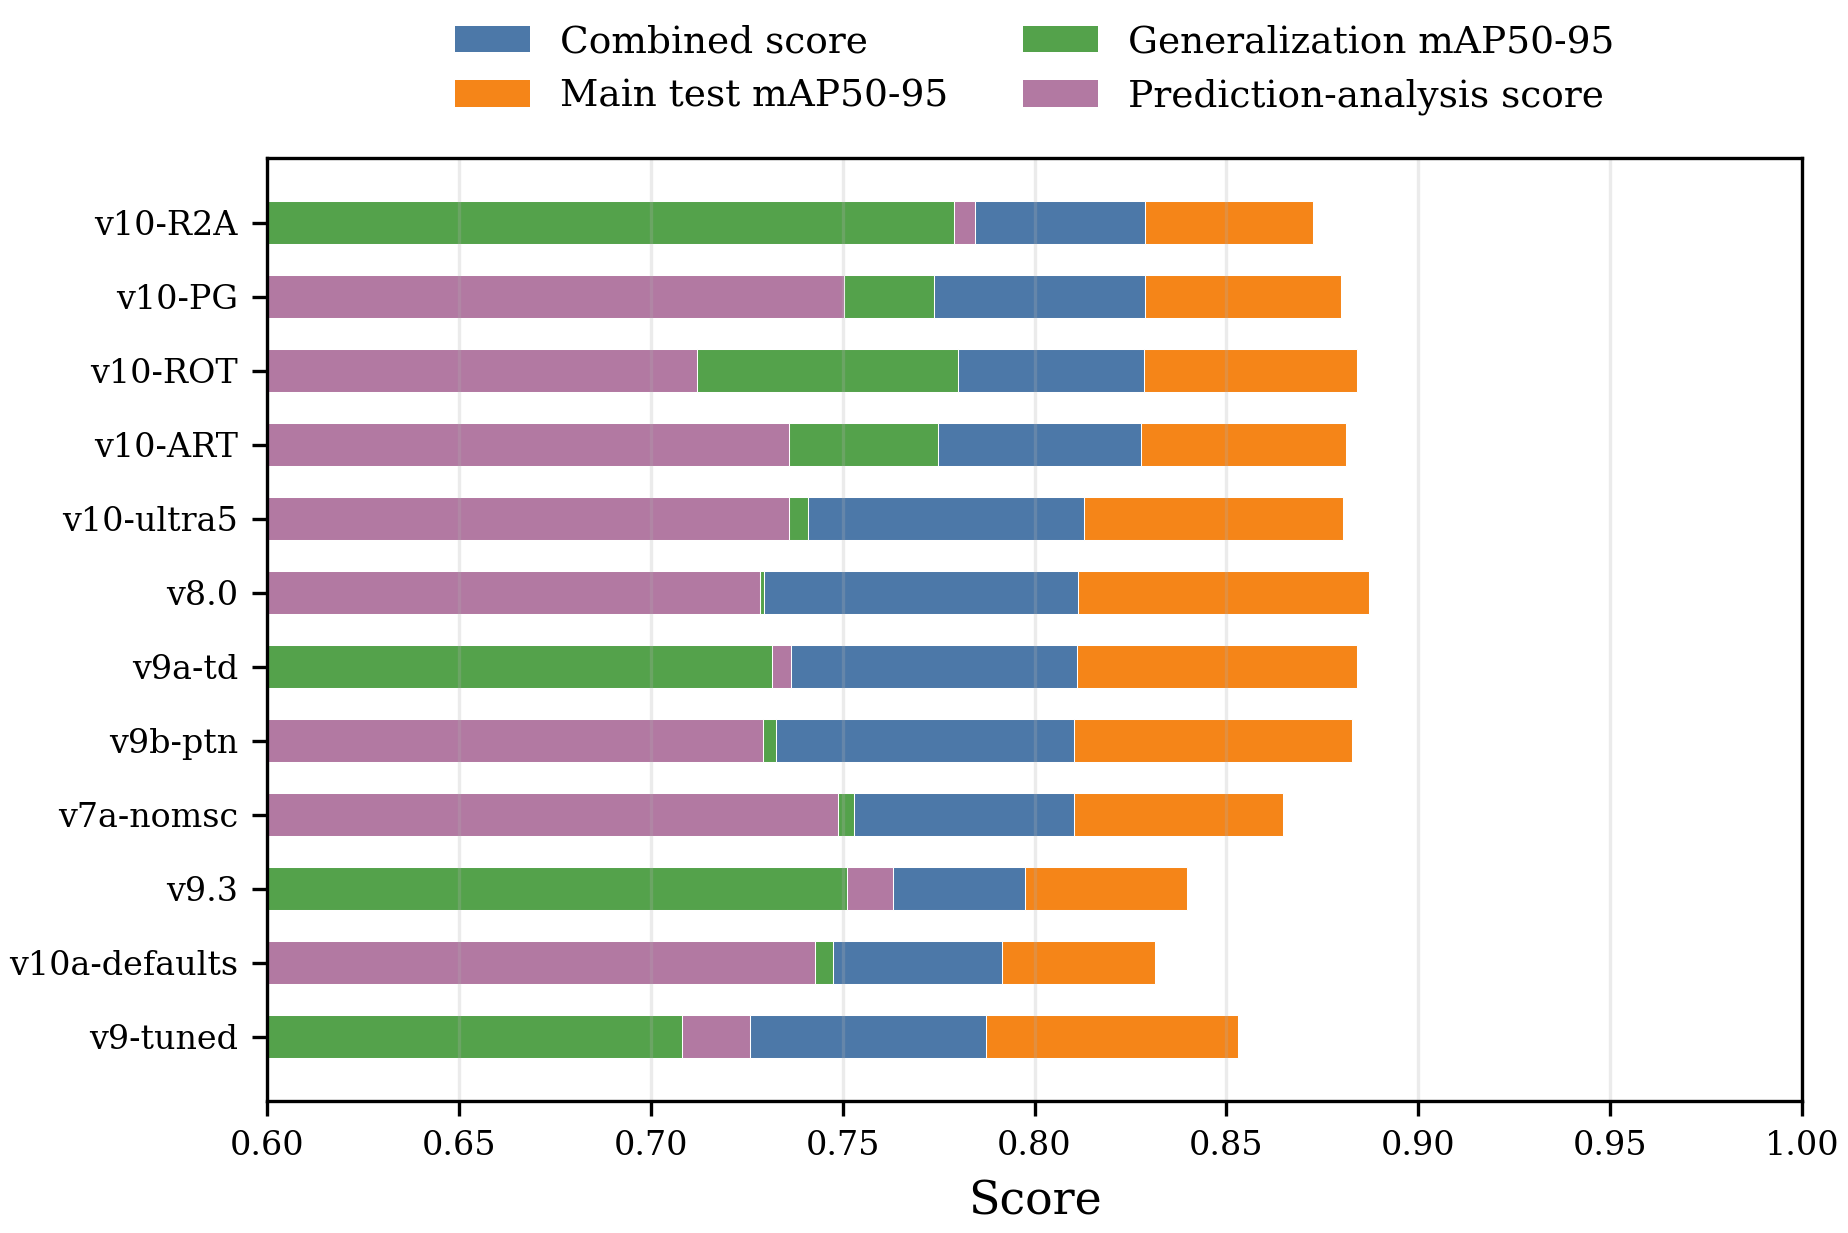
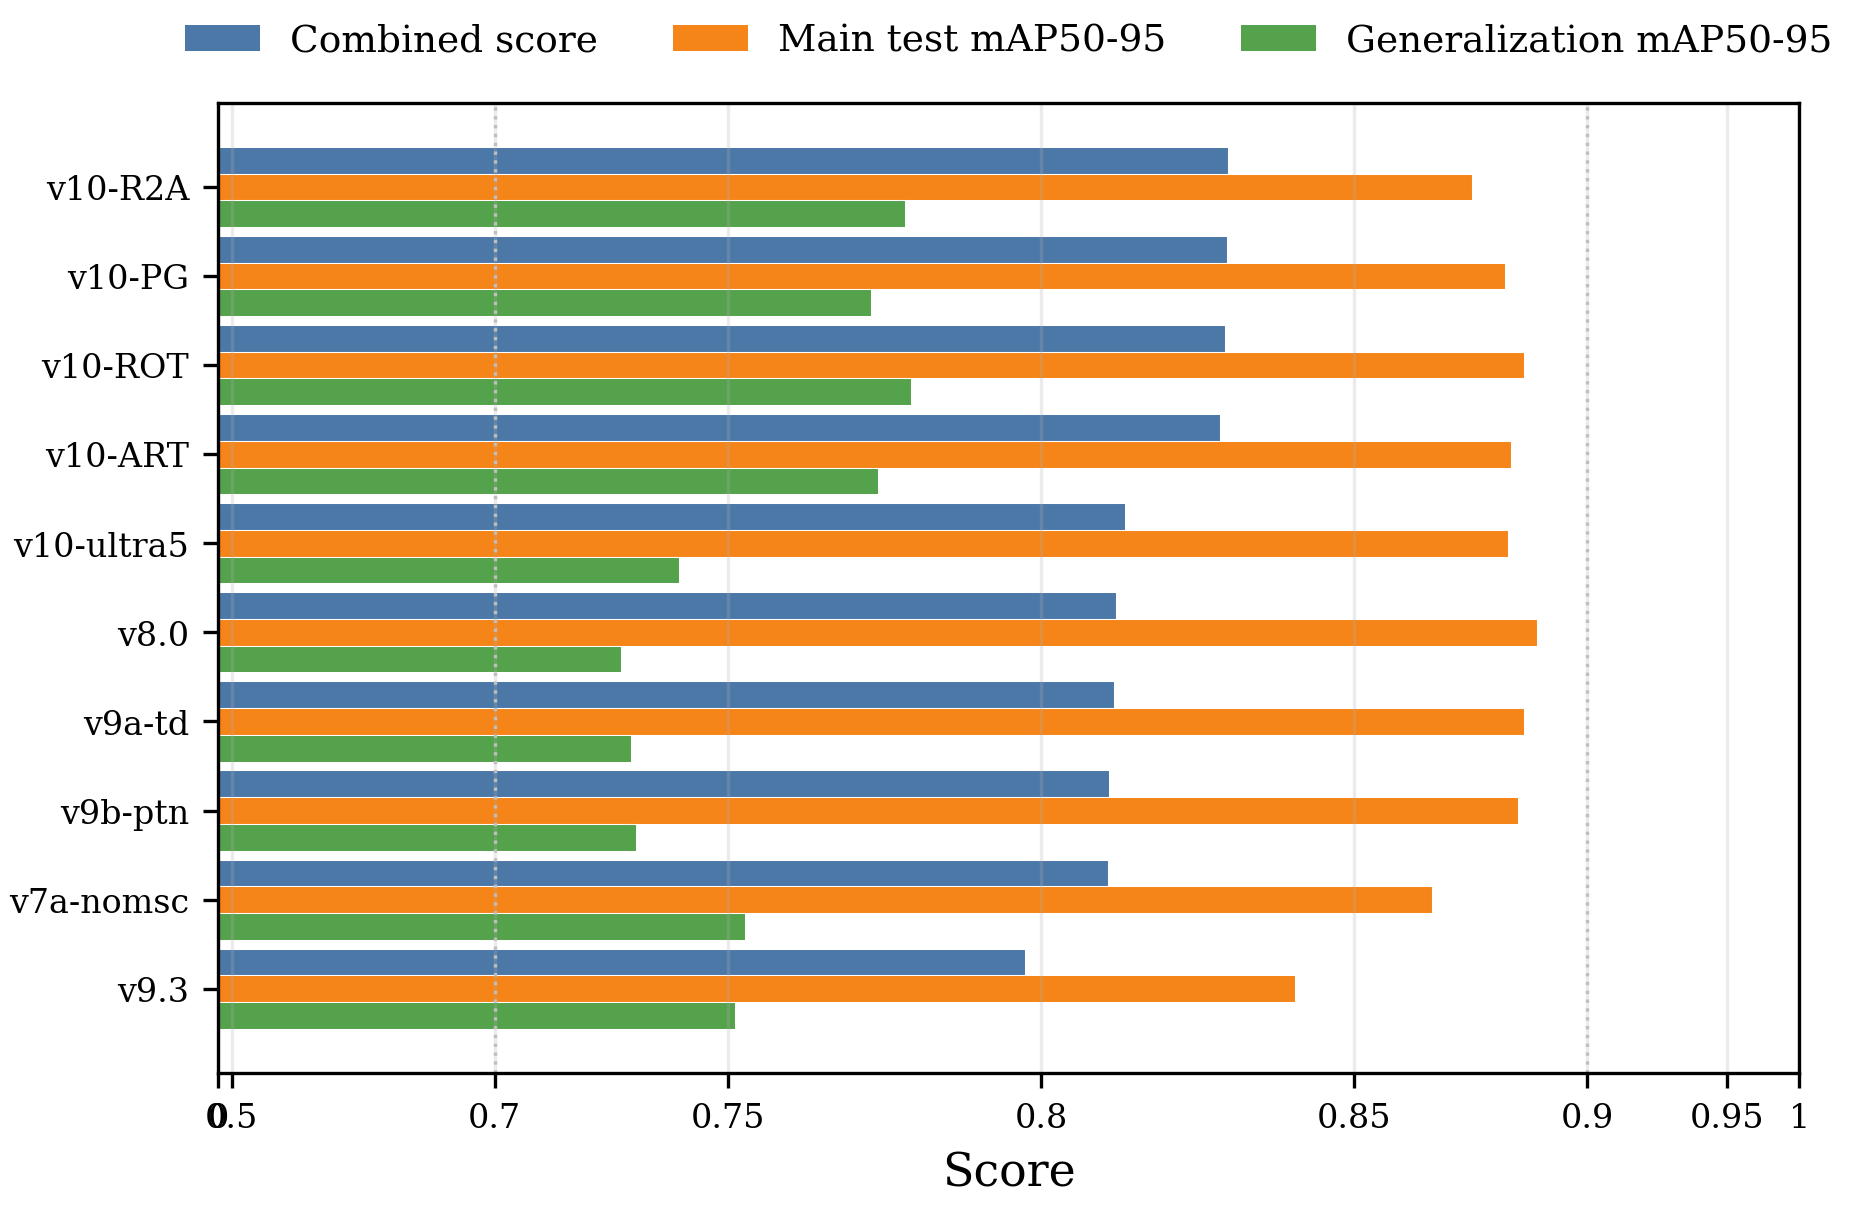
pics

diff --git a/models/obb/experiments/thesis_plots/make_thesis_model_plots.py b/models/obb/experiments/thesis_plots/make_thesis_model_plots.py
@@ -240,6 +240,18 @@ def focused_axis_values(
     return np.where(clipped <= low, low_part, np.where(clipped <= high, mid_part, high_part))
 
 
+def normalized_score_axis_values(
+    values: pd.Series | np.ndarray,
+    center: float = 0.75,
+    steepness: float = 8.0,
+) -> np.ndarray:
+    clipped = np.clip(np.asarray(values, dtype=float), 0.0, 1.0)
+    lo = 1.0 / (1.0 + np.exp(-steepness * (0.0 - center)))
+    hi = 1.0 / (1.0 + np.exp(-steepness * (1.0 - center)))
+    scaled = 1.0 / (1.0 + np.exp(-steepness * (clipped - center)))
+    return (scaled - lo) / (hi - lo)
+
+
 def valid_label_windows(
     label_left_windows: list[tuple[tuple[float, float], tuple[float, float]]] | None,
 ) -> list[tuple[tuple[float, float], tuple[float, float]]]:
@@ -367,6 +379,17 @@ def set_focused_axes(
     ax.axhline(low_span, color="0.75", linewidth=0.8, linestyle=":")
     ax.axvline(low_span + focus_span, color="0.75", linewidth=0.8, linestyle=":")
     ax.axhline(low_span + focus_span, color="0.75", linewidth=0.8, linestyle=":")
+
+
+def set_focused_score_xaxis(ax: plt.Axes, low: float = 0.7, high: float = 0.9) -> None:
+    ticks = [0.0, 0.5, low, 0.75, 0.8, 0.85, high, 0.95, 1.0]
+    positions = normalized_score_axis_values(np.array(ticks), center=(low + high) / 2.0)
+    labels = [str(int(tick)) if tick in {0.0, 1.0} else f"{tick:.2f}".rstrip("0").rstrip(".") for tick in ticks]
+    ax.set_xlim(0.0, 1.0)
+    ax.set_xticks(positions)
+    ax.set_xticklabels(labels)
+    ax.axvline(float(normalized_score_axis_values(np.array([low]), center=(low + high) / 2.0)[0]), color="0.75", linewidth=0.8, linestyle=":")
+    ax.axvline(float(normalized_score_axis_values(np.array([high]), center=(low + high) / 2.0)[0]), color="0.75", linewidth=0.8, linestyle=":")
 
 
 def set_compressed_axes(ax: plt.Axes, threshold: float) -> None:
@@ -542,27 +565,29 @@ def plot_model_ranking(full: pd.DataFrame, out: Path, top_n: int) -> Path:
         "eval_score": ("Combined score", "#4c78a8"),
         "main_test_mAP50-95": ("Main test mAP50-95", "#f58518"),
         "gen_avg_mAP50-95": ("Generalization mAP50-95", "#54a24b"),
-        "pred_avg_score": ("Prediction-analysis score", "#b279a2"),
     }
-    df = full.sort_values("eval_score", ascending=False).head(top_n).copy()
+    df = full.sort_values("eval_score", ascending=False).head(min(top_n, 10)).copy()
     df["label"] = df["model_version"].map(nice_model)
     y = np.arange(len(df))
-    h = 0.58
-    fig, ax = plt.subplots(figsize=(6.6, max(3.2, 0.34 * len(df))))
-    x0 = 0.6
-    for yi, (_, row) in zip(y, df.iterrows()):
-        values = [(col, float(row[col])) for col in cols if pd.notna(row[col])]
-        for col, value in sorted(values, key=lambda item: item[1], reverse=True):
-            _, color = cols[col]
-            ax.barh(yi, max(0.0, value - x0), left=x0, height=h, color=color, edgecolor="white", linewidth=0.25)
+    h = 0.3
+    offsets = np.linspace(-h, h, len(cols))
+    fig, ax = plt.subplots(figsize=(6.8, max(3.2, 0.42 * len(df))))
+    score_low, score_high = 0.7, 0.9
+    for offset, (col, (_, color)) in zip(offsets, cols.items()):
+        for yi, (_, row) in zip(y, df.iterrows()):
+            if pd.isna(row[col]):
+                continue
+            value = float(row[col])
+            plot_value = float(normalized_score_axis_values(np.array([value]), center=(score_low + score_high) / 2.0)[0])
+            ax.barh(yi + offset, plot_value, left=0.0, height=h, color=color, edgecolor="white", linewidth=0.25)
     ax.set_yticks(y)
     ax.set_yticklabels(df["label"])
     ax.invert_yaxis()
     ax.set_xlabel("Score")
-    ax.set_xlim(0.6, 1.0)
+    set_focused_score_xaxis(ax, score_low, score_high)
     ax.grid(axis="x", alpha=0.25)
     handles = [Patch(facecolor=color, label=label) for label, color in cols.values()]
-    ax.legend(handles=handles, loc="lower center", bbox_to_anchor=(0.5, 1.01), ncol=2, frameon=False)
+    ax.legend(handles=handles, loc="lower center", bbox_to_anchor=(0.5, 1.01), ncol=3, frameon=False)
     path = out / "01_model_ranking_top_models.png"
     save(fig, path)
     return path
